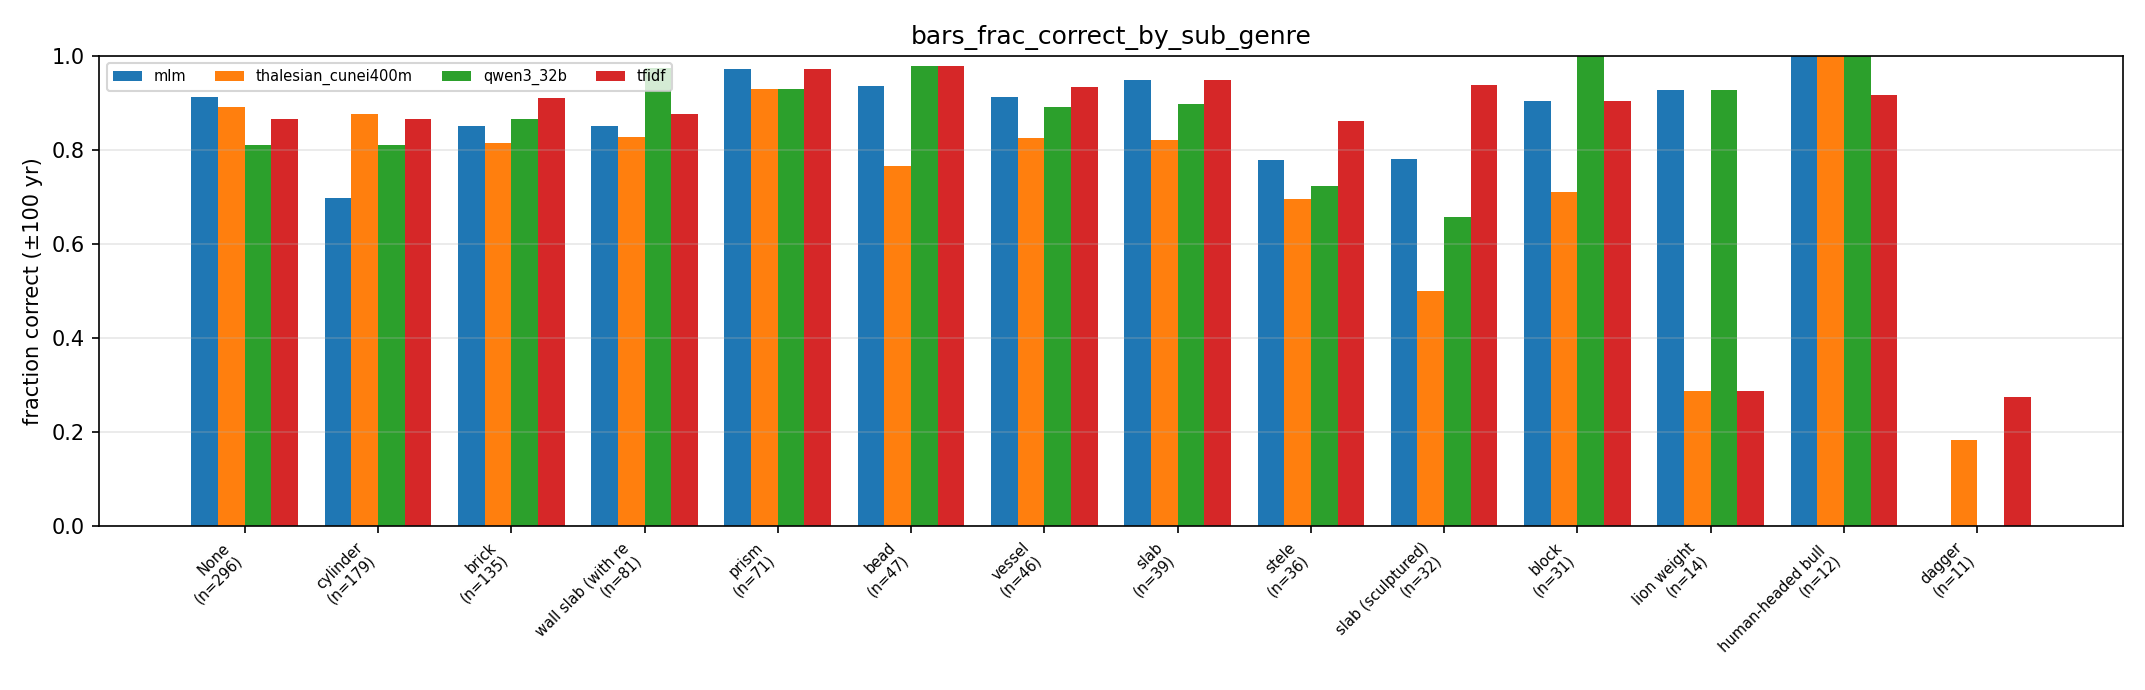
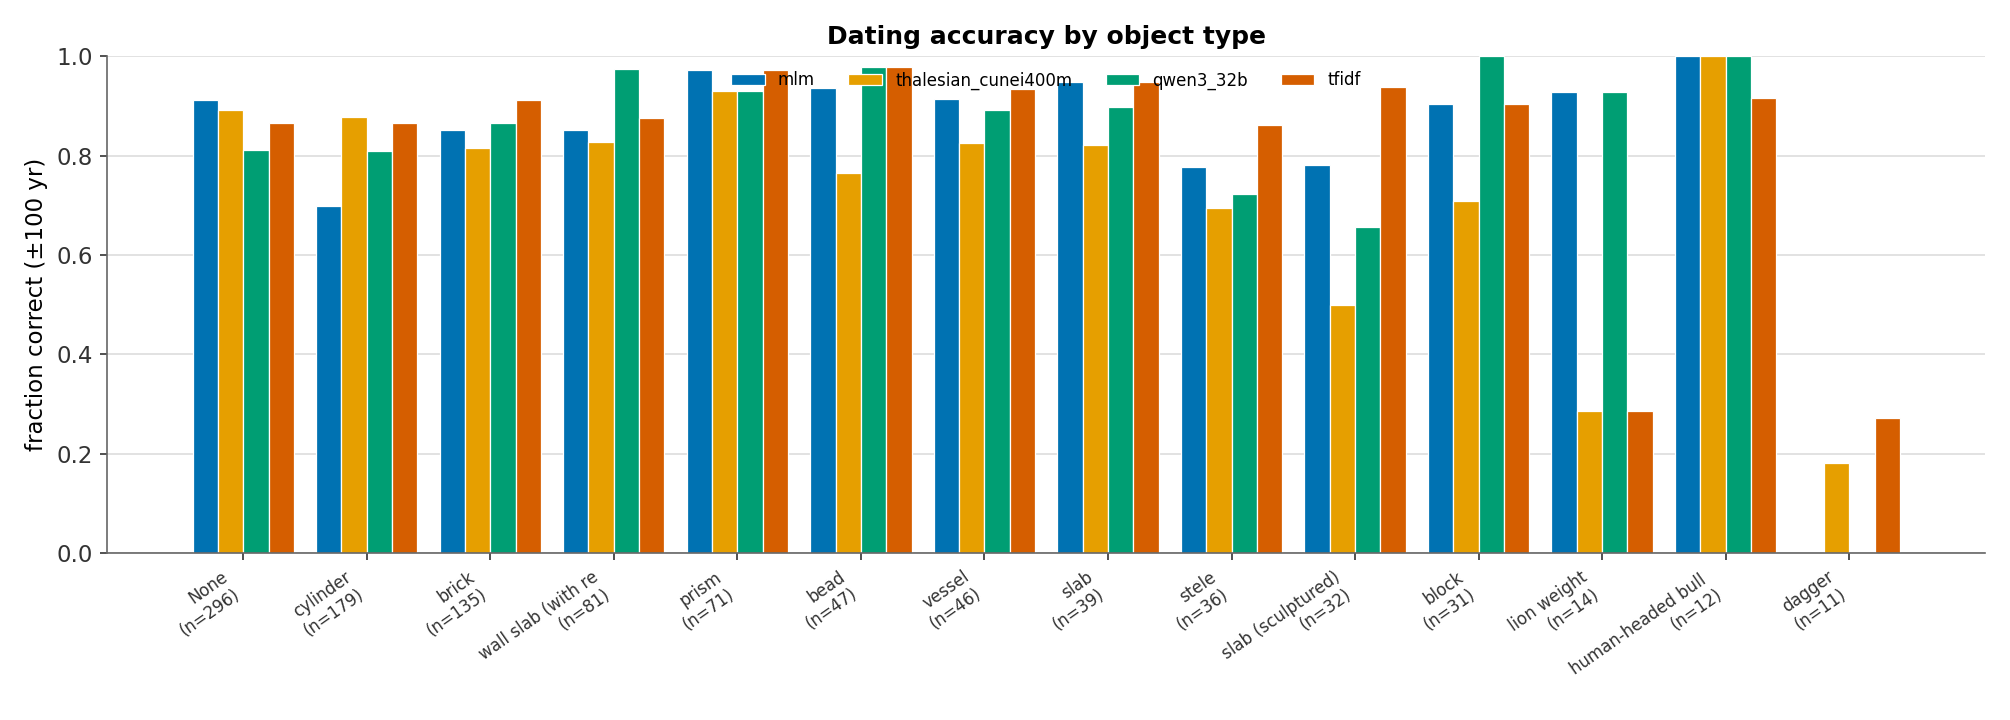
Polish per-model figures: Okabe-Ito palette, fine-grained year line, node-edge model graph
- consistent colorblind-safe palette + clean styling across all per-model plots
- year_accuracy_line.png: 50-yr bins, one line/model + fragment-count context
  band (replaces chunky century bars)
- model_graph.png: nodes + all pairwise edges labeled with Wasserstein years,
  thickness = similarity (replaces bare MDS scatter). mlm is the hub, tfidf the
  outlier (8.8y from thalesian).

diff --git a/v_1/src/geodesic/fig1_followups/error_overlap/analyze_per_model.py b/v_1/src/geodesic/fig1_followups/error_overlap/analyze_per_model.py
@@ -32,6 +32,25 @@ import numpy as np
 
 META = ["ruler", "period", "provenance", "domain", "sub_genre"]
 
+# Okabe-Ito colorblind-safe palette — consistent model->color across every plot.
+_PALETTE = ["#0072B2", "#E69F00", "#009E73", "#D55E00", "#CC79A7",
+            "#56B4E9", "#999999", "#F0E442"]
+
+
+def _setup(plt):
+    plt.rcParams.update({
+        "figure.dpi": 150, "savefig.dpi": 150,
+        "axes.spines.top": False, "axes.spines.right": False,
+        "axes.grid": True, "grid.color": "#dddddd", "grid.linewidth": 0.8,
+        "axes.axisbelow": True, "axes.edgecolor": "#666666",
+        "font.size": 11, "axes.titlesize": 12, "axes.titleweight": "bold",
+        "legend.frameon": False, "xtick.color": "#333333", "ytick.color": "#333333",
+    })
+
+
+def _cmap(models):
+    return {m: _PALETTE[i % len(_PALETTE)] for i, m in enumerate(models)}
+
 
 def group_analysis(rows, models, meta_cols, out, tol, plt, min_n=10, top_k=14):
     """Same error analysis as the fragment level, but aggregated per metadata
@@ -92,7 +111,8 @@ def grouped_bars(rows, models, labels, out, tol, plt, min_n=10, top_k=14):
     Two per label: fraction-correct and mean-abs-error. Reads the error
     distribution differences across models at a glance (softer than unique sets)."""
     import numpy as np
-    colors = plt.cm.tab10(np.linspace(0, 1, 10))
+    _setup(plt)
+    cm = _cmap(models)
     for label in labels:
         vals = np.array([r.get(label, "") for r in rows])
         groups, counts = np.unique(vals, return_counts=True)
@@ -113,26 +133,64 @@ def grouped_bars(rows, models, labels, out, tol, plt, min_n=10, top_k=14):
                 nmae[gi, mi] = np.mean(errs) if errs else np.nan
 
         def bars(M, ylab, title, fname, ylim=None):
-            x = np.arange(len(keep)); w = 0.8 / len(models)
-            fig, ax = plt.subplots(figsize=(max(7, 0.95 * len(keep)) + 1, 4.6))
+            x = np.arange(len(keep)); w = 0.82 / len(models)
+            fig, ax = plt.subplots(figsize=(max(7, 0.85 * len(keep)) + 1.5, 4.8))
             for mi, m in enumerate(models):
                 ax.bar(x + (mi - (len(models) - 1) / 2) * w, M[:, mi], w,
-                       color=colors[mi], label=m)
+                       color=cm[m], edgecolor="white", linewidth=0.6, label=m)
             ax.set_xticks(x)
             ax.set_xticklabels([f"{str(g)[:18]}\n(n={int((vals == g).sum())})" for g in keep],
-                               rotation=45, ha="right", fontsize=7)
+                               rotation=35, ha="right", fontsize=8)
             ax.set_ylabel(ylab); ax.set_title(title)
+            ax.grid(axis="x", visible=False)
             if ylim:
                 ax.set_ylim(*ylim)
-            ax.legend(fontsize=7, ncol=len(models)); ax.grid(True, axis="y", alpha=0.3)
-            fig.tight_layout(); fig.savefig(out / fname, dpi=150); plt.close(fig)
+            ax.legend(fontsize=8, ncol=len(models), loc="upper center",
+                      bbox_to_anchor=(0.5, 1.0))
+            fig.tight_layout(); fig.savefig(out / fname); plt.close(fig)
             print(f"[ok] {fname}")
 
+        nice = {"ruler": "ruler", "period": "period", "provenance": "provenance",
+                "domain": "domain", "sub_genre": "object type", "century": "century (BCE)"}.get(label, label)
         bars(nfrac, f"fraction correct (±{tol:.0f} yr)",
-             f"bars frac correct by {label}".replace(" ", "_"),
-             f"bars_frac_{label}.png", ylim=(0, 1))
-        bars(nmae, "mean abs error (yr)", f"bars MAE by {label}",
-             f"bars_mae_{label}.png")
+             f"Dating accuracy by {nice}", f"bars_frac_{label}.png", ylim=(0, 1))
+        bars(nmae, "mean abs error (years)",
+             f"Dating error by {nice}", f"bars_mae_{label}.png")
+
+
+def year_line(rows, models, out, tol, plt, bin_yr=50):
+    """Fine-grained dating accuracy vs year: one smooth line per model over
+    `bin_yr`-year bins (far finer + cleaner than the chunky century bars)."""
+    import numpy as np
+    _setup(plt)
+    cm = _cmap(models)
+    yrs = np.array([float(r["year_true"]) for r in rows])
+    lo, hi = (np.floor(yrs.min() / bin_yr) * bin_yr, np.ceil(yrs.max() / bin_yr) * bin_yr)
+    edges = np.arange(lo, hi + bin_yr, bin_yr)
+    centers = (edges[:-1] + edges[1:]) / 2
+    idx = np.digitize(yrs, edges) - 1
+
+    fig, ax = plt.subplots(figsize=(11, 5))
+    counts = np.array([(idx == b).sum() for b in range(len(centers))])
+    # shade bin counts as a light context band
+    ax2 = ax.twinx()
+    ax2.fill_between(centers, counts, color="#eeeeee", step="mid", zorder=0)
+    ax2.set_ylabel("# fragments per bin", color="#999999")
+    ax2.set_ylim(0, counts.max() * 3); ax2.tick_params(colors="#999999")
+    ax2.grid(False); ax2.spines["top"].set_visible(False)
+
+    for m in models:
+        ok = np.array([r[f"_ok_{m}"] for r in rows], dtype=float)
+        frac = np.array([ok[idx == b].mean() if (idx == b).sum() >= 5 else np.nan
+                         for b in range(len(centers))])
+        ax.plot(centers, frac, "-o", ms=4, lw=2, color=cm[m], label=m, zorder=3)
+    ax.set_xlabel("year (BCE)"); ax.set_ylabel(f"fraction correct (±{tol:.0f} yr)")
+    ax.set_ylim(0, 1.02); ax.invert_xaxis()   # older on the right -> time flows left
+    ax.set_title(f"Dating accuracy across time ({bin_yr}-year bins)")
+    ax.set_zorder(ax2.get_zorder() + 1); ax.patch.set_visible(False)
+    ax.legend(ncol=len(models), loc="upper left")
+    fig.tight_layout(); fig.savefig(out / "year_accuracy_line.png"); plt.close(fig)
+    print("[ok] year_accuracy_line.png")
 
 
 def distance_and_map(rows, models, out, tol, plt):
@@ -149,6 +207,7 @@ def distance_and_map(rows, models, out, tol, plt):
     import numpy as np
     from scipy.spatial.distance import jensenshannon
     from scipy.stats import wasserstein_distance
+    _setup(plt)
 
     errs = {m: np.array([r[f"_err_{m}"] for r in rows if not np.isnan(r[f"_err_{m}"])])
             for m in models}
@@ -189,24 +248,43 @@ def distance_and_map(rows, models, out, tol, plt):
                              f"{JS[i, j]:.4f}", f"{W[i, j]:.1f}"])
     print("[ok] distribution_distances.csv")
 
-    # MDS map from the JS distances
+    # Node-edge graph: nodes positioned by MDS on Wasserstein (so on-page
+    # distance ~ years), every pair connected by an edge LABELED with the
+    # Wasserstein distance; thicker/darker edge = closer (more similar errors).
+    cm = _cmap(models)
     try:
         from sklearn.manifold import MDS
         mds = MDS(n_components=2, dissimilarity="precomputed", random_state=0,
-                  n_init=8, normalized_stress="auto")
-        xy = mds.fit_transform(JS)
-        fig, ax = plt.subplots(figsize=(6, 5))
-        ax.scatter(xy[:, 0], xy[:, 1], s=180, c=range(n), cmap="tab10", zorder=3)
+                  n_init=12, normalized_stress="auto")
+        xy = mds.fit_transform(W)
+        fig, ax = plt.subplots(figsize=(7, 6))
+        wmax = W.max()
+        for i in range(n):
+            for j in range(i + 1, n):
+                close = 1 - W[i, j] / wmax           # 0..1, 1 = closest
+                ax.plot([xy[i, 0], xy[j, 0]], [xy[i, 1], xy[j, 1]],
+                        color=str(0.85 - 0.6 * close), lw=1 + 5 * close, zorder=1)
+                mx, my = (xy[i, 0] + xy[j, 0]) / 2, (xy[i, 1] + xy[j, 1]) / 2
+                ax.text(mx, my, f"{W[i, j]:.1f}y", fontsize=8, ha="center", va="center",
+                        bbox=dict(boxstyle="round,pad=0.15", fc="white", ec="none", alpha=0.85),
+                        zorder=2)
         for i, m in enumerate(models):
+            ax.scatter(xy[i, 0], xy[i, 1], s=420, color=cm[m],
+                       edgecolor="white", linewidth=2, zorder=3)
             ax.annotate(m, (xy[i, 0], xy[i, 1]), textcoords="offset points",
-                        xytext=(8, 4), fontsize=9)
-        ax.set_title("Model map (MDS on JS distance of error distributions)\n"
-                     "close = similar error behavior")
-        ax.set_xticks([]); ax.set_yticks([]); ax.grid(True, alpha=0.2)
-        fig.tight_layout(); fig.savefig(out / "model_map_mds.png", dpi=150); plt.close(fig)
-        print(f"[ok] model_map_mds.png  (MDS stress={mds.stress_:.4f})")
+                        xytext=(0, 16), ha="center", fontsize=10, fontweight="bold")
+        ax.set_title("Model similarity graph", fontsize=13, pad=18)
+        ax.text(0.5, 1.005, "edge = Wasserstein distance of error distributions (yr) · "
+                "thicker = more alike", transform=ax.transAxes, ha="center",
+                va="bottom", fontsize=9, color="#555555")
+        ax.set_xticks([]); ax.set_yticks([]); ax.grid(False)
+        ax.margins(0.22)
+        for s in ax.spines.values():
+            s.set_visible(False)
+        fig.savefig(out / "model_graph.png", bbox_inches="tight"); plt.close(fig)
+        print(f"[ok] model_graph.png  (MDS stress={mds.stress_:.4f})")
     except Exception as e:
-        print(f"[warn] MDS skipped: {type(e).__name__}: {e}")
+        print(f"[warn] graph skipped: {type(e).__name__}: {e}")
 
 
 def main() -> None:
@@ -218,6 +296,7 @@ def main() -> None:
                     help="how many example fragment_ids to print per set")
     ap.add_argument("--min-n", type=int, default=10, help="min fragments per metadata group")
     ap.add_argument("--top-k", type=int, default=14, help="max groups per metadata label")
+    ap.add_argument("--year-bin", type=int, default=50, help="bin width (yr) for the year line")
     args = ap.parse_args()
     out = args.out_dir or args.pred_csv.parent
     out.mkdir(parents=True, exist_ok=True)
@@ -330,8 +409,11 @@ def main() -> None:
         r["century"] = f"{int(float(r['year_true']) // 100) * 100}"
 
     print("\n--- grouped bars (one color per model) per metadata value ---")
-    grouped_bars(rows, models, meta_cols + ["century"], out, args.tol, plt,
+    grouped_bars(rows, models, meta_cols, out, args.tol, plt,
                  min_n=args.min_n, top_k=args.top_k)
+
+    print("\n--- fine-grained accuracy-vs-year line ---")
+    year_line(rows, models, out, args.tol, plt, bin_yr=args.year_bin)
 
     print("\n--- model error-distribution distances + MDS map ---")
     distance_and_map(rows, models, out, args.tol, plt)
